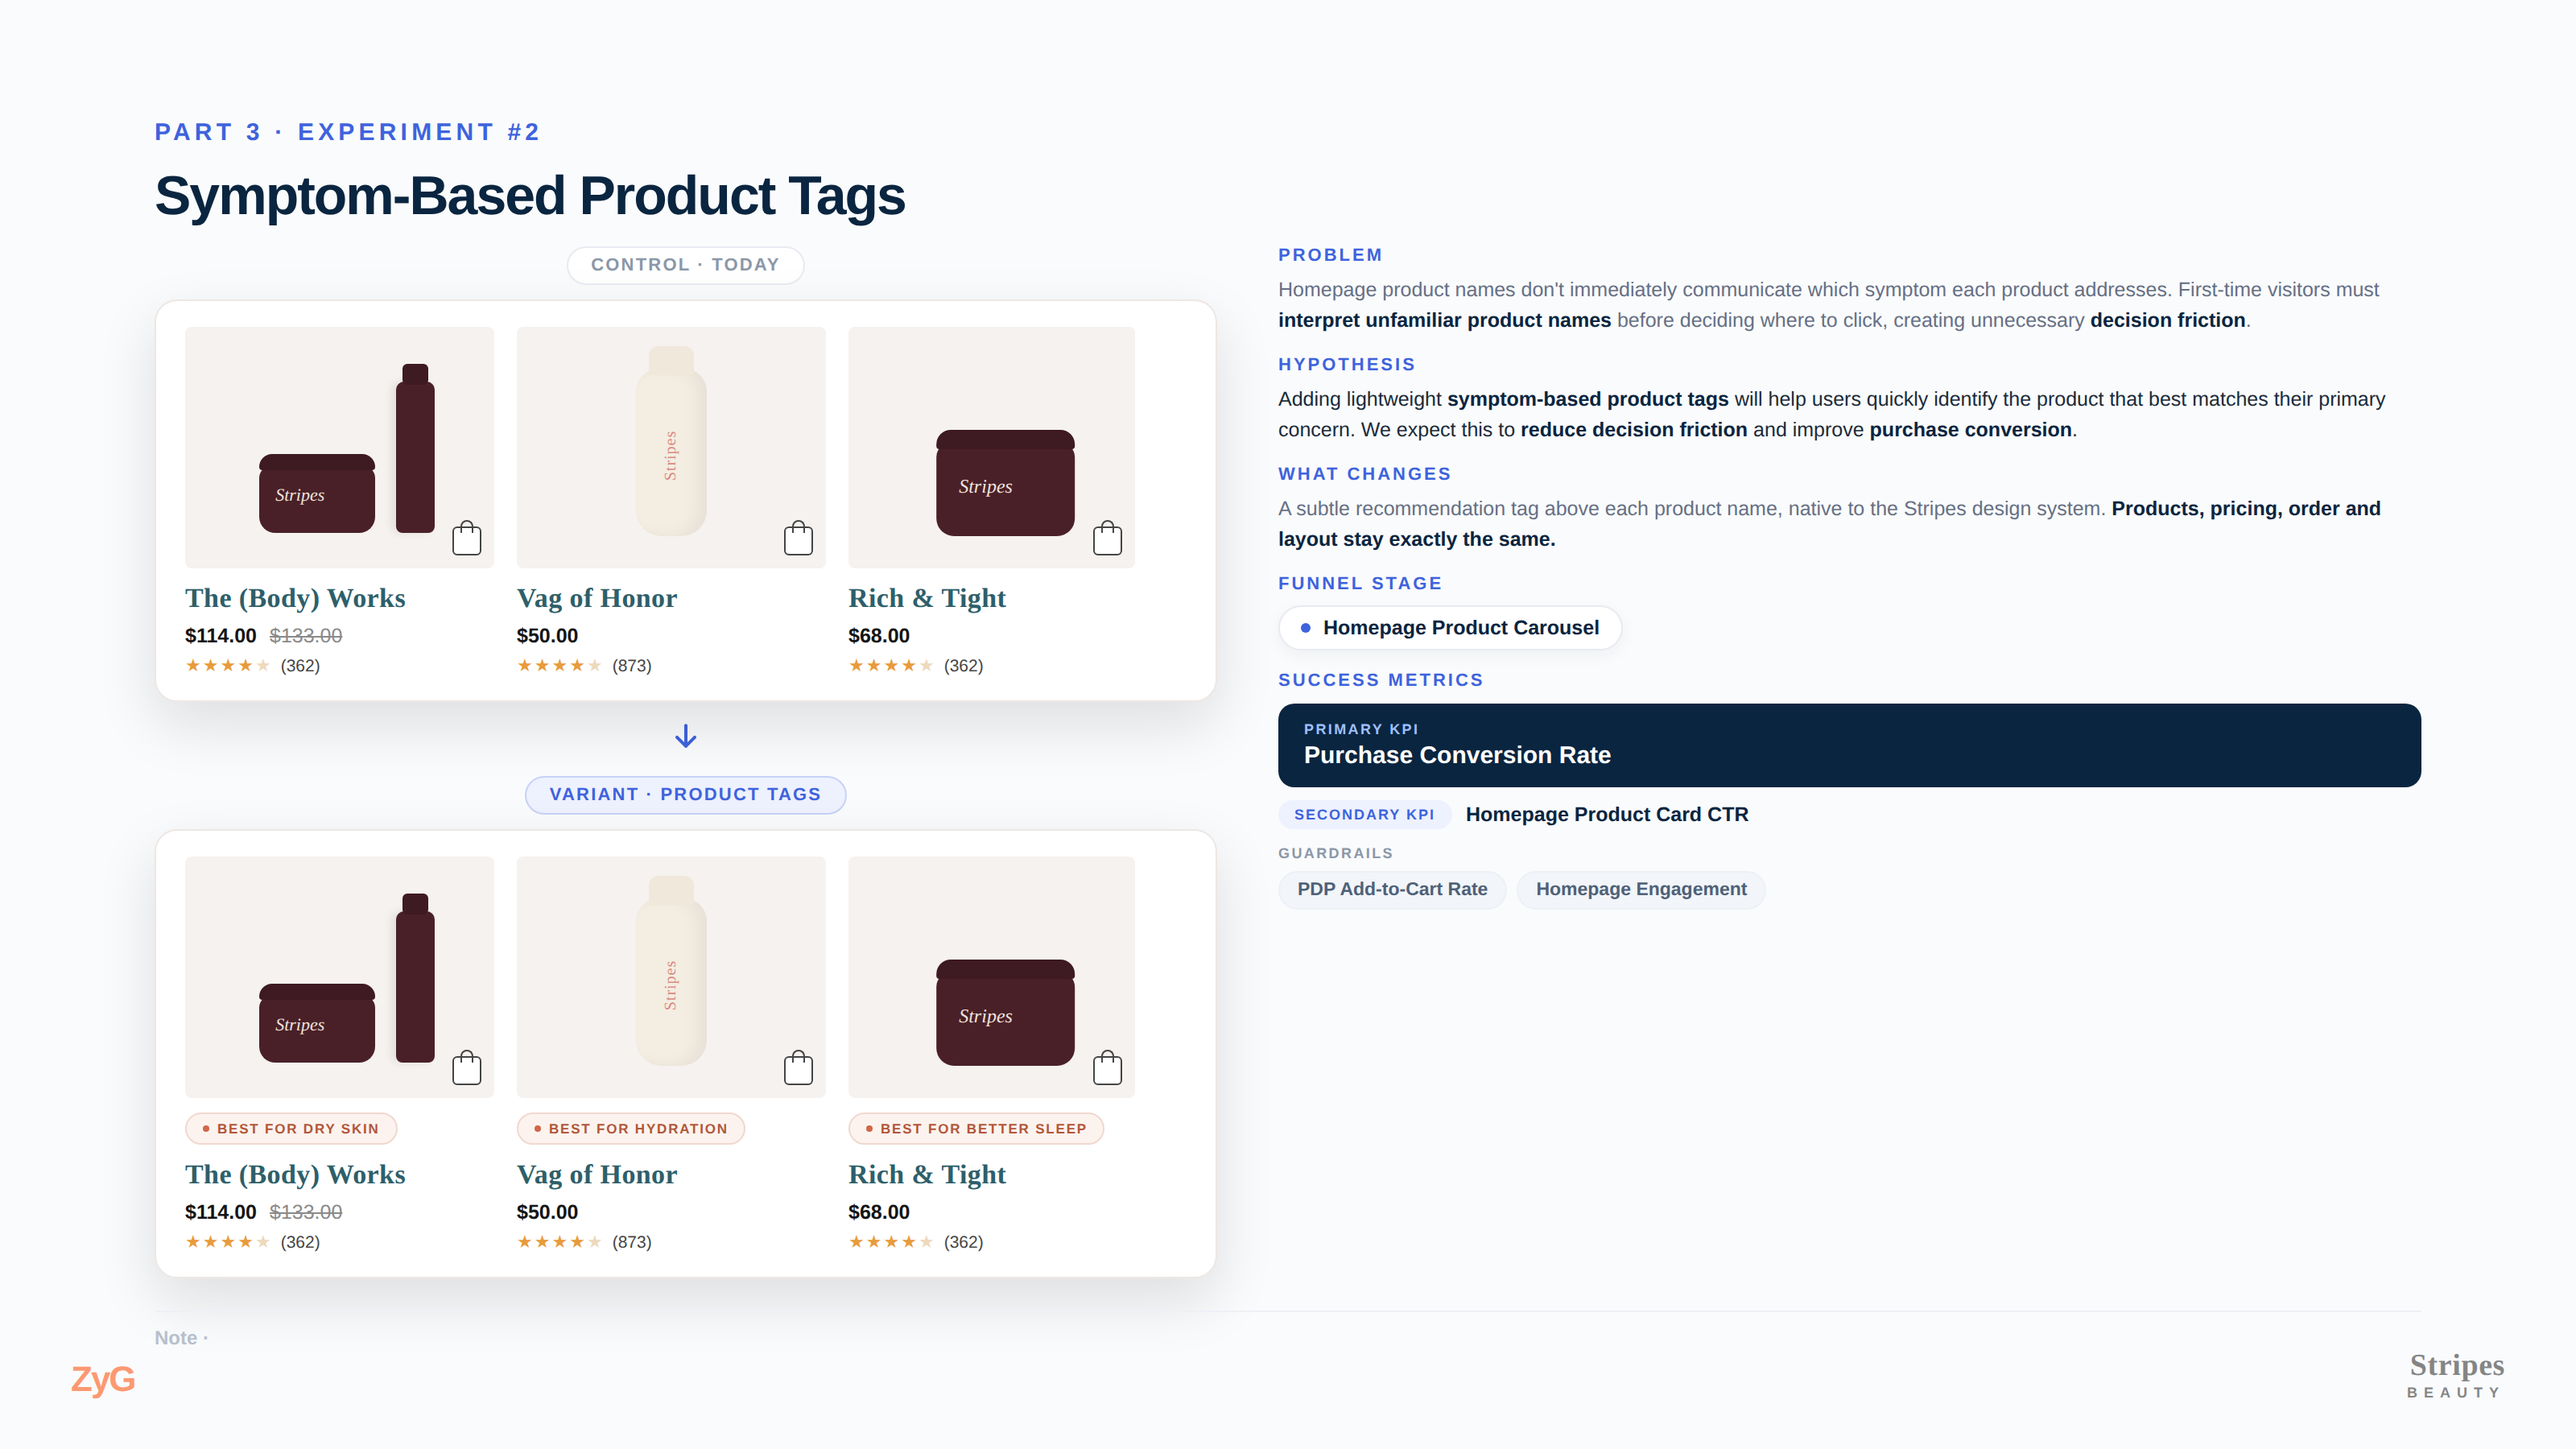
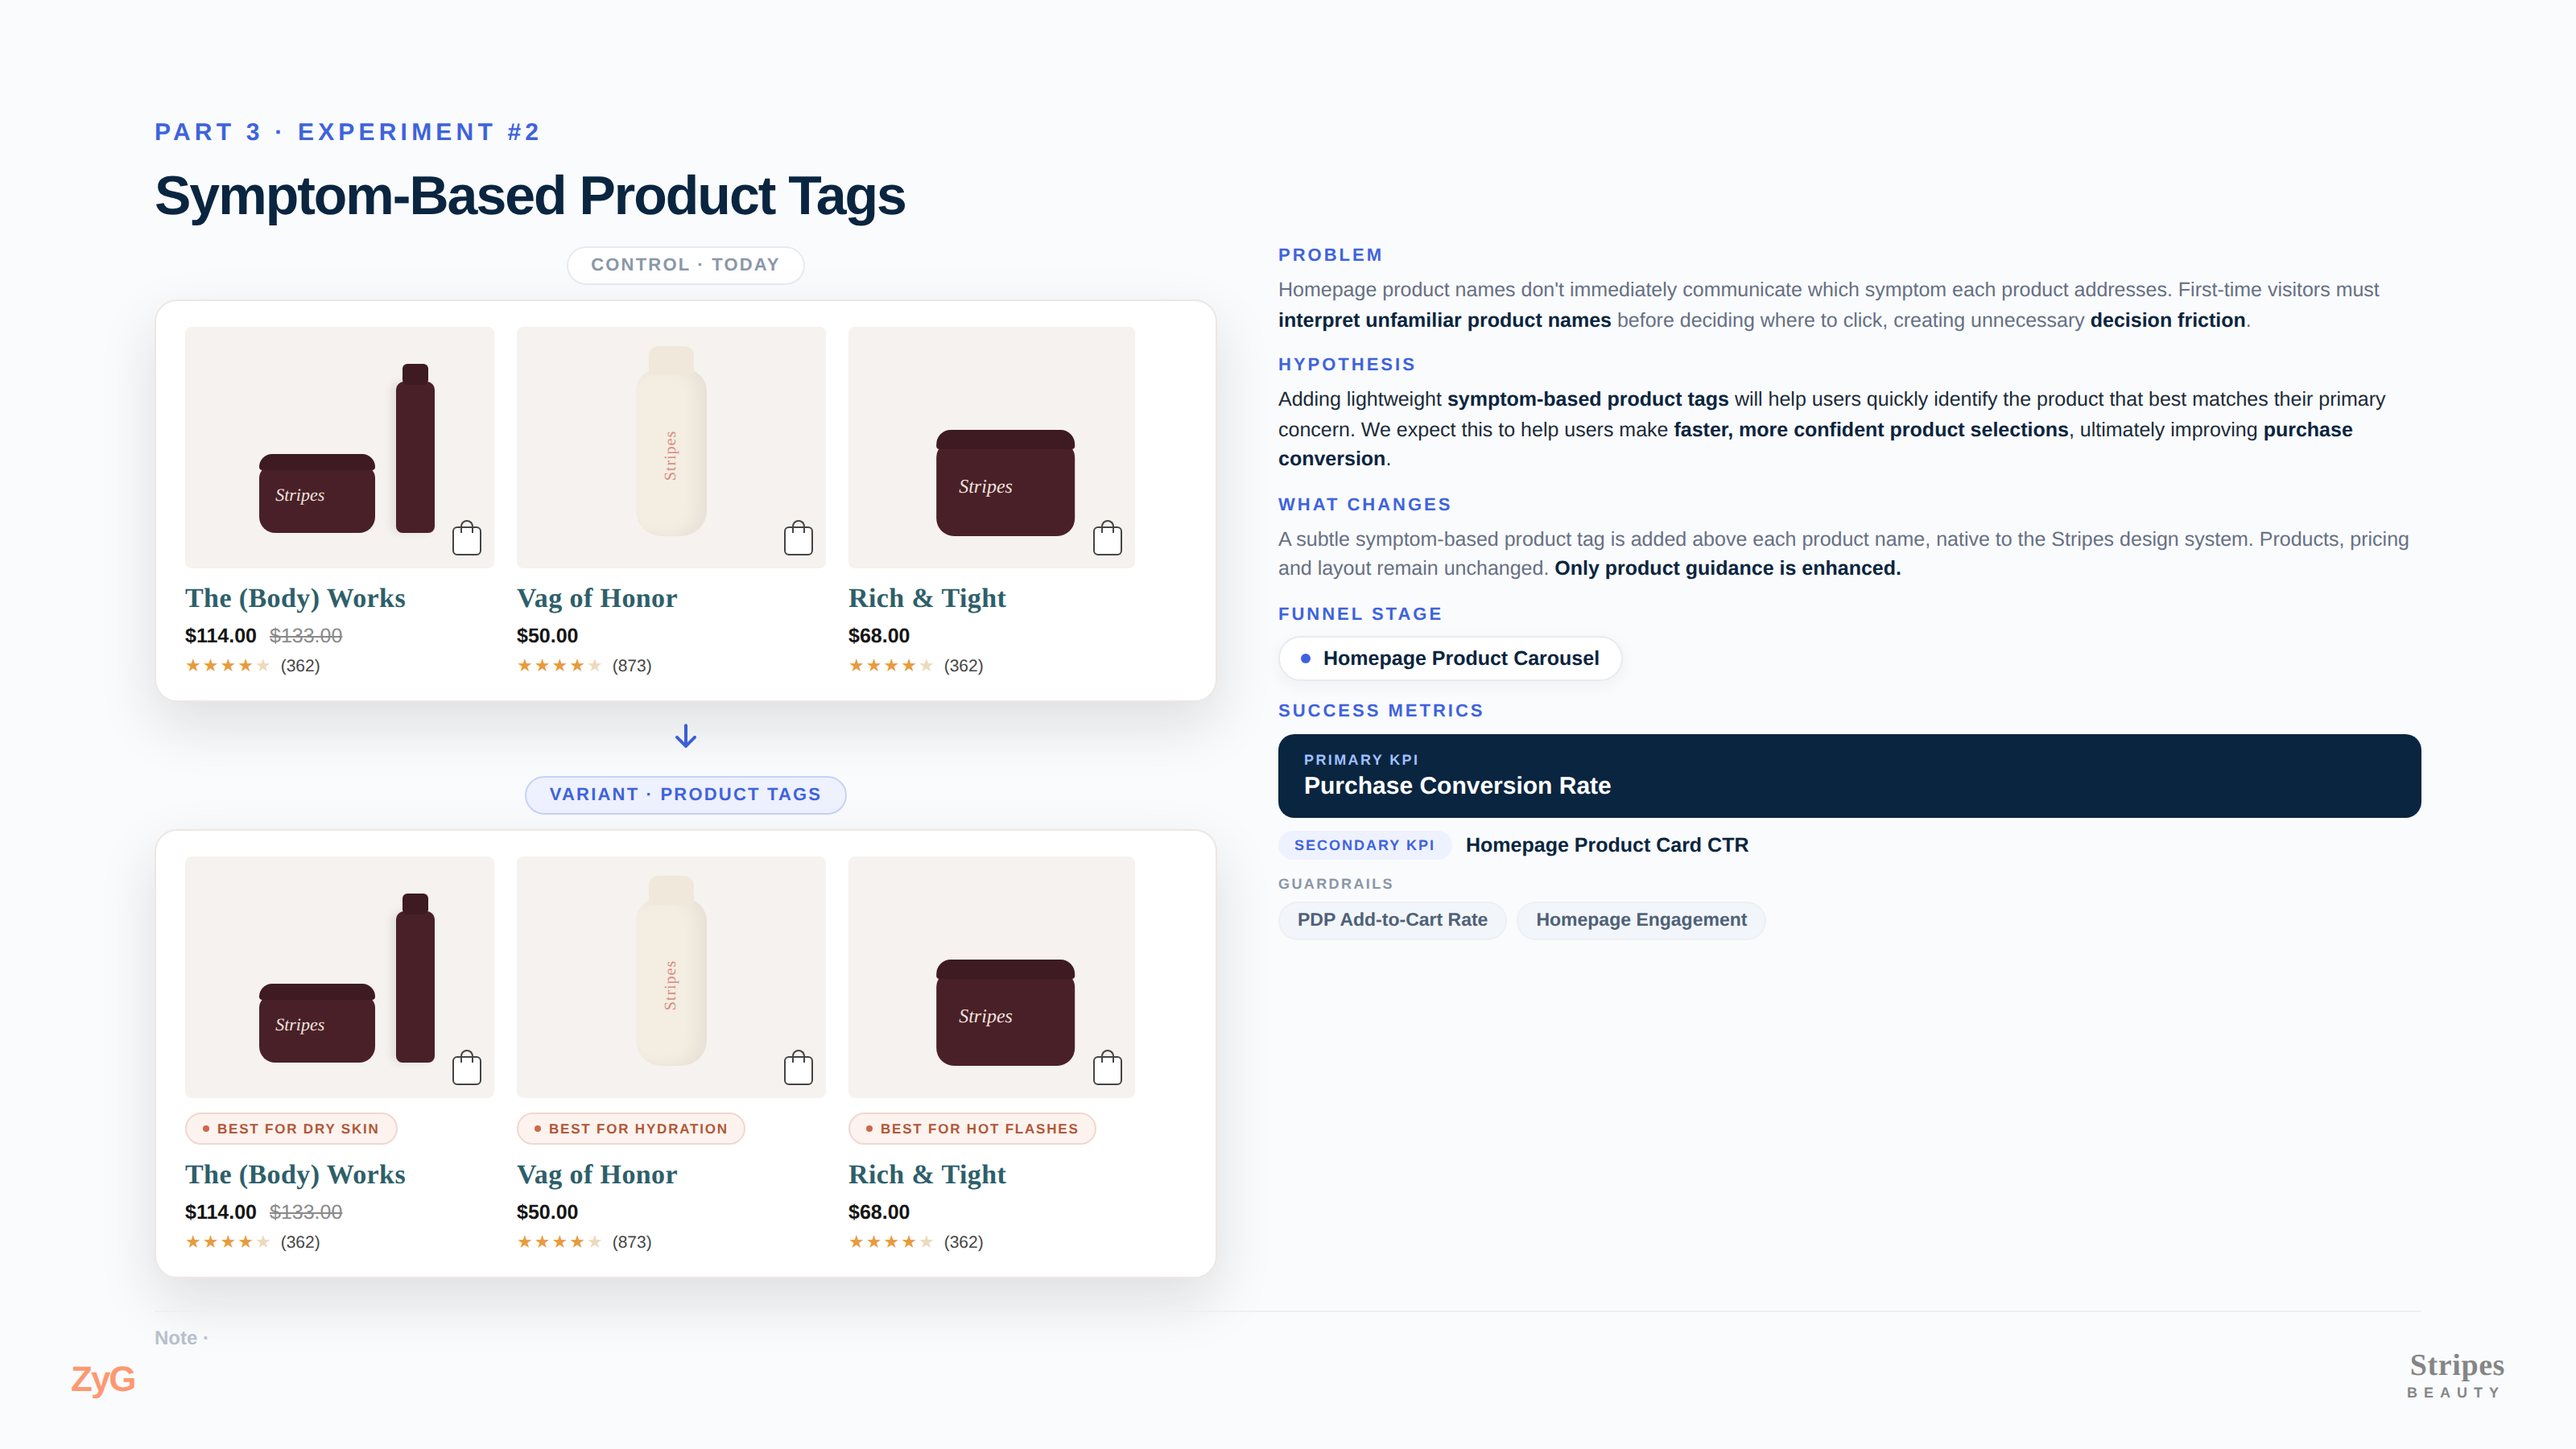
Exp 2 finalize: hypothesis, what-changes, consumer-friendly tags
Refined hypothesis (faster, confident selections); what-changes ends 'Only
product guidance is enhanced'; tags now Dry Skin / Hydration / Hot Flashes.

Claude-Session: https://claude.ai/code/session_01GoAG3ySswQXo2H1hh5EwTk

Changed region(s): [[0.5, 0.3111, 0.9375, 0.6533], [0.5938, 0.28, 0.9062, 0.3111]]

diff --git a/diagrams/slides/p3-03-exp2.html b/diagrams/slides/p3-03-exp2.html
@@ -116,7 +116,7 @@
         </div>
         <div class="pcard cut">
           <div class="photo"><span class="jar2"></span><span class="bag"></span></div>
-          <div class="rec"><span class="rd"></span>Best for Better Sleep</div>
+          <div class="rec"><span class="rd"></span>Best for Hot Flashes</div>
           <div class="pname tight">Rich &amp; Tight</div>
           <div class="prices"><span class="pr">$68.00</span></div>
           <div class="stars"><span class="st">&#9733;&#9733;&#9733;&#9733;<span class="dim">&#9733;</span></span><span class="rc">(362)</span></div>
@@ -132,11 +132,11 @@
       </div>
       <div class="blk">
         <div class="bl">Hypothesis</div>
-        <p>Adding lightweight <b>symptom-based product tags</b> will help users quickly identify the product that best matches their primary concern. We expect this to <b>reduce decision friction</b> and improve <b>purchase conversion</b>.</p>
+        <p>Adding lightweight <b>symptom-based product tags</b> will help users quickly identify the product that best matches their primary concern. We expect this to help users make <b>faster, more confident product selections</b>, ultimately improving <b>purchase conversion</b>.</p>
       </div>
       <div class="blk">
         <div class="bl">What changes</div>
-        <p class="mut">A subtle recommendation tag above each product name, native to the Stripes design system. <b>Products, pricing, order and layout stay exactly the same.</b></p>
+        <p class="mut">A subtle symptom-based product tag is added above each product name, native to the Stripes design system. Products, pricing and layout remain unchanged. <b>Only product guidance is enhanced.</b></p>
       </div>
       <div class="blk">
         <div class="bl">Funnel stage</div>
